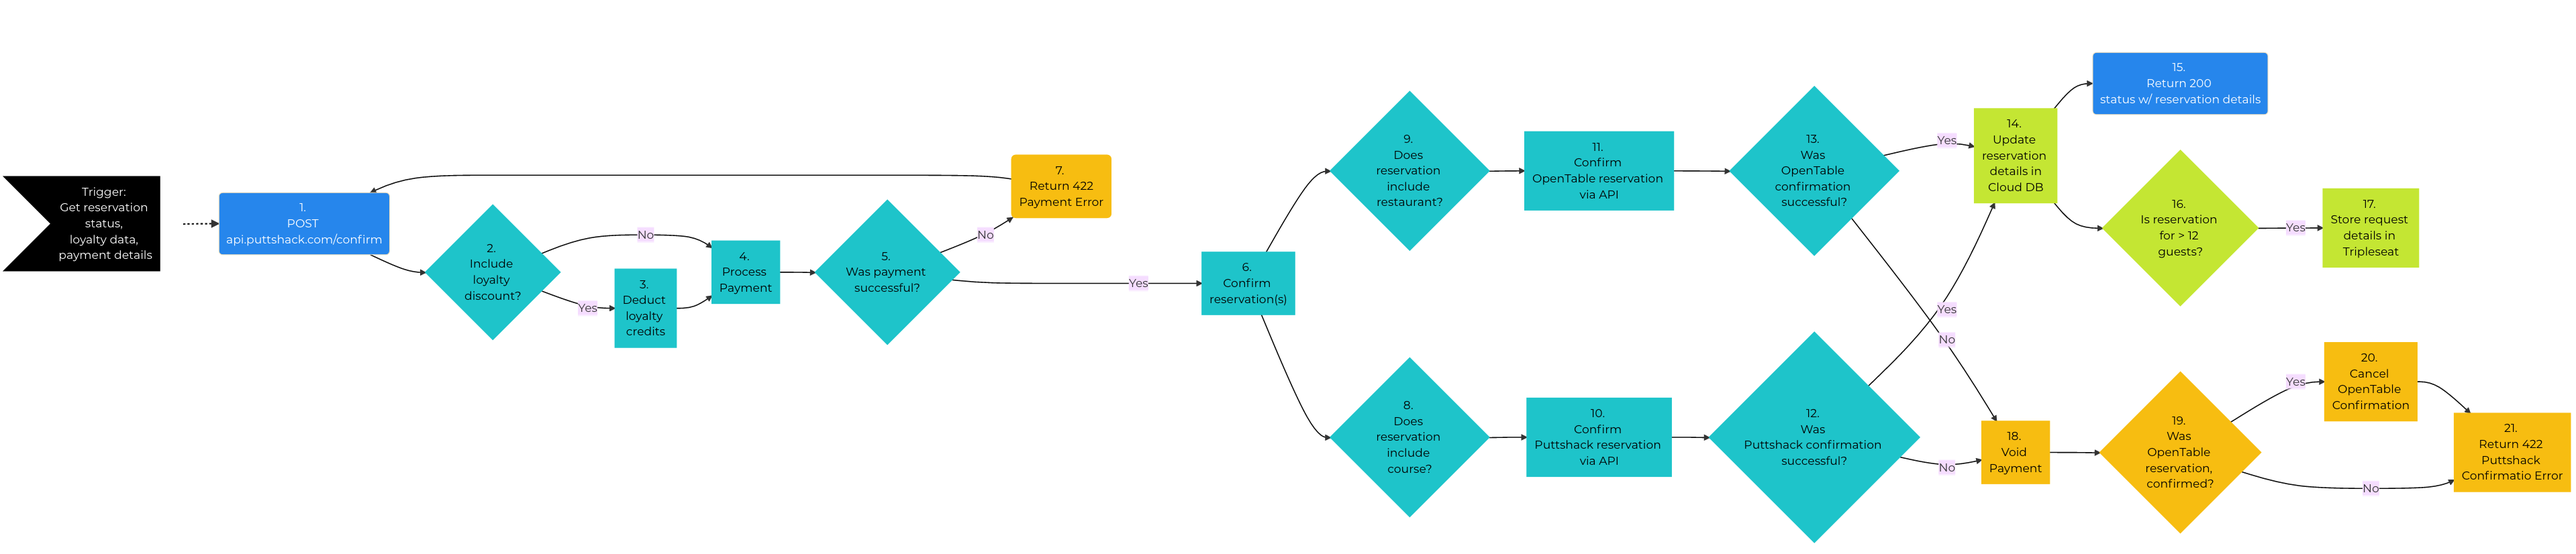
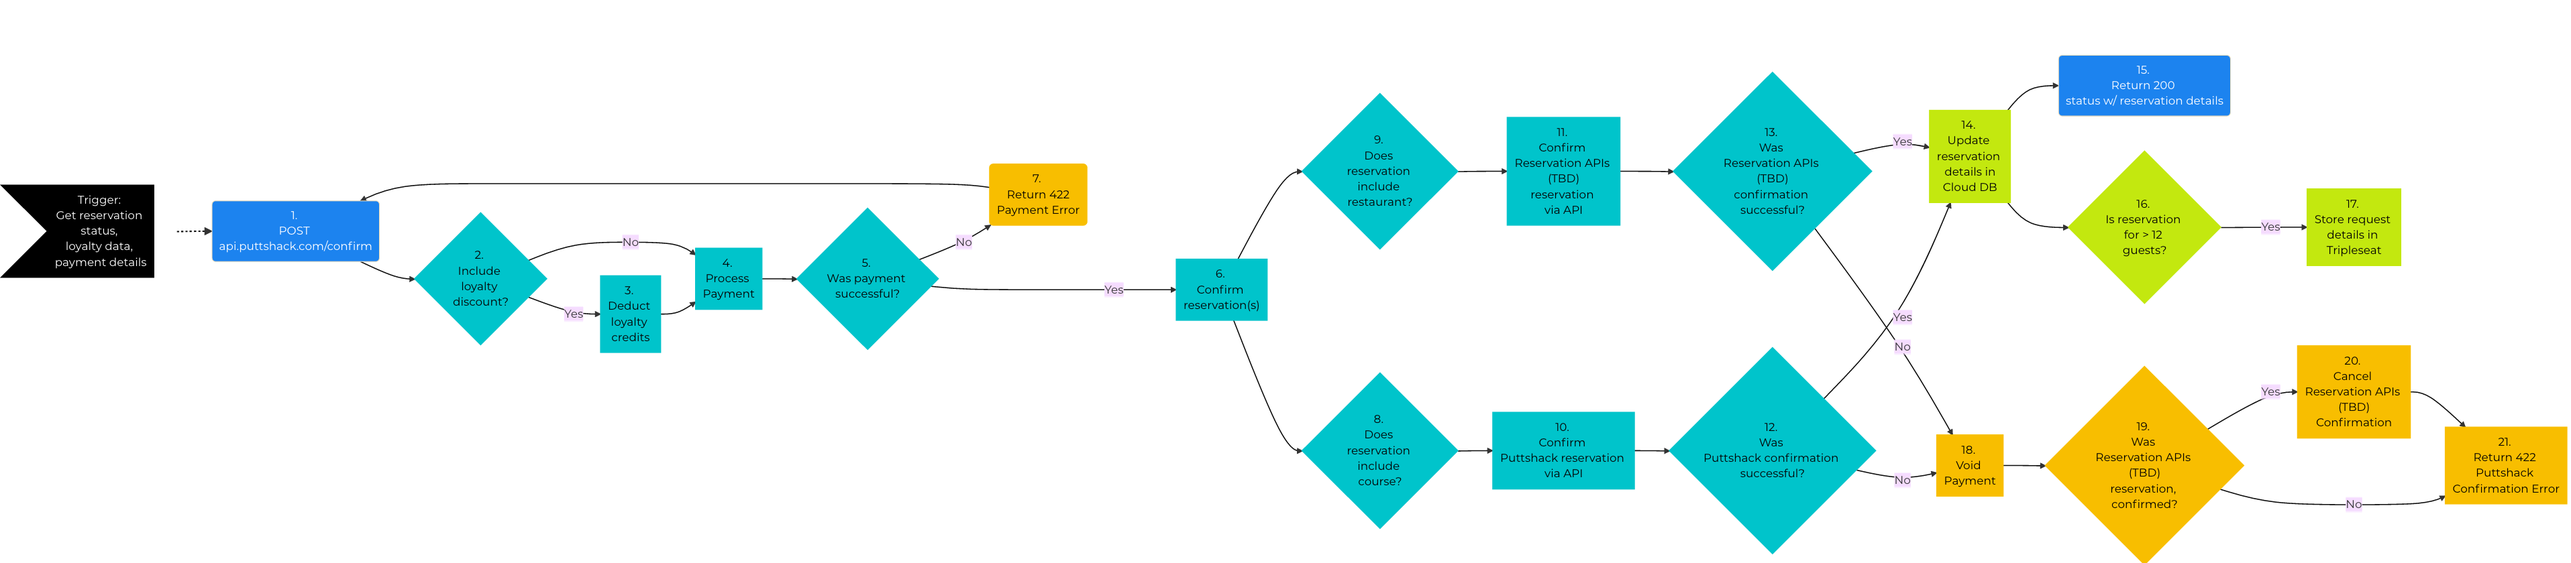
Fixes #4 missing workflow mermaid diagrams added

diff --git a/docs/source/docs/workflows.rst b/docs/source/docs/workflows.rst
@@ -12,10 +12,6 @@
 Puttshack API Workflows
 ************************
 
-.. warning::
-
-     Please note only three workflows are populated as of Aug 11.  Rest will be done after initial feedback to avoid rework.
-
 Workflow refers to a collection or unique set of API call sequences intended to achieve a specific objective related to a product use case. Some workflows may be commonly used across multiple use cases.
 
 This document gives a brief overview of |product_name| workflows that can be used by Puttshack Developers to implement one or more Puttshack digital service offerings. Each workflow description comprises of a flow chart, followed by key stages of the workflow, error handling and a list of third party APIs used to implement the workflow.
@@ -24,6 +20,7 @@ Here is a list of API workflows covered in this document:
 
 .. contents:: 
      :local:
+     :depth: 1
 
 ----
 
@@ -59,7 +56,7 @@ Booking: Key Stages
    
    - If the reservation includes a course then request hold via Puttshack Reservation APIs. If reservation is confirmed then store details in :ref:`cloud database<ref_gsg_cloud_database>` and proceed with the :ref:`Payment Workflow<ref_wf_payment>`. If reservation is not confirmed, check whether restaurant reservation was successful, if not cancel the reservation and return 422 course error. 
      
-   - If the reservation includes a restaurant, then request a hold via `Reservation APIs (TBD)<ref_tpa_opentable>`. If reservation is confirmed then store details in cloud database and proceed with the :ref:`Payment Workflow<ref_wf_payment>`. If reservation is not successful then cancel restaurant reservation and return 422 error.
+   - If the reservation includes a restaurant, then request a hold via :ref:`Reservation APIs (TBD)<ref_tpa_opentable>`. If reservation is confirmed then store details in cloud database and proceed with the :ref:`Payment Workflow<ref_wf_payment>`. If reservation is not successful then cancel restaurant reservation and return 422 error.
 
 #. To reserve for 24 guest or more, use Tripleseat APIs to store request details in Tripleseat and also update in cloud database. Return 200 success message and also share request details with Puttshack Sales Manager.
 
@@ -118,15 +115,15 @@ Payment: Key Stages
 
 #. Once the payment is successful, confirm reservation and check what all options are included in the booking.
 
-   - For course reservation, see if the Puttshack reservation API was successful and update reservation details in the cloud database. Otherwise, void the payment transaction, cancel the reservation (if it was implemented using `Reservation APIs (TBD)<ref_tpa_opentable>` based booking) and return 422 Puttshack confirmation error.
+   - For course reservation, see if the Puttshack reservation API was successful and update reservation details in the cloud database. Otherwise, void the payment transaction, cancel the reservation (if it was implemented using :ref:`Reservation APIs (TBD)<ref_tpa_opentable>` based booking) and return 422 Puttshack confirmation error.
 
-   - For restaurant reservation, see if reservation confirmation was received and update reservation details in the cloud database. Otherwise void the payment transaction, cancel the reservation (if it was a reservation based on `Reservation APIs (TBD)<ref_tpa_opentable>` booking) and return Puttshack confirmation error.
+   - For restaurant reservation, see if reservation confirmation was received and update reservation details in the cloud database. Otherwise void the payment transaction, cancel the reservation (if it was a reservation based on :ref:`Reservation APIs (TBD)<ref_tpa_opentable>` booking) and return Puttshack confirmation error.
 
 ------------------------
 Payment: Error Handling
 ------------------------
 
-If the payment processing fails, cancel all the third party based reservations - `Reservation APIs (TBD)<ref_tpa_opentable>` ones for example.
+If the payment processing fails, cancel all the third party based reservations - :ref:`Reservation APIs (TBD)<ref_tpa_opentable>` ones for example.
 
 Use webhooks to get notified of third party API call events that could result in payment failure.
 
@@ -144,13 +141,59 @@ Payment: Third Party APIs used
 
 .. _ref_wf_trieventconfirm_wb:
 
-===============================================
-Tripleseat Event Confirmation Webhook Workflow
-===============================================
+====================================
+Event Confirmation Webhook Workflow
+====================================
 
-.. note:: Work in Progress...
+The Puttshack event confirmation webhook workflow gathers an event confirmation information using third party APIs from Tripleseat. This workflow ensures that a confirmation is received via the third party booking API providers before confirming the same to the event host and guest(s).  It also performs retries until a specified threshold is reached.
 
-      I did not get enough time yet to complete this workflow - TBD.
+Refer to the the flow chart below for details. The key stages and error handling for event confirmation workflow are listed below:
+
+.. figure:: /img/ts_evt_confirm_wh.png
+   :align: center
+   :width: 100%
+   :figwidth: 95%
+   :alt: ts_evt_confirm_wh-wf
+
+   *Tripleseat Event Confirmation Webhook  Workflow*
+
+.. note::
+
+     Double click on the flowchart to zoom in.
+
+------------------------
+Confirmation: Key Stages
+------------------------
+
+#. Register for Tripleseat webhook for event confirmation using ```POST request``` and store event details in the :ref:`Cloud database<ref_gsg_cloud_database>`. Check if the event is triggered, if not simply return success response.
+
+#. If the event is triggered, add the event to the booking queue and processes them.
+
+#. The event processing queue requests reservation confirmation. If the reservation includes restaurant, then it initiates reservation request via :ref:`Reservation API (TBD)<ref_tpa_opentable>`. However, if the reservation includes golf, then it uses |product_name| for reservation confirmation status check. In both cases, it checks the request response and if successful, updates the event data in the cloud database. Next, it sends confirmation emails to guest(s). If the confirmation request response is not successful, it performs error handling.
+
+----------------------------
+Confirmation: Error Handling
+----------------------------
+
+As part of error handling, if the confirmation request status is not success, then the error count is incremented in the cloud database. In case it reaches the threshold limit, the event is marked as failed and a notification email is sent to the Puttshack Sales Manager.
+
+If the threshold limit is not reached, then event is placed back in the queue and processing retried.
+
+-----------------------------------
+Confirmation: Third Party APIs used
+-----------------------------------
+
+* Event Management:
+
+  - Locations, Bookings via :ref:`Tripleseat<ref_tpa_tripleseat>`
+
+* Restaurant Reservation:
+
+  - :ref:`Reservation APIs (TBD)<ref_tpa_opentable>`
+
+* Communication:
+
+  - :ref:`SendGrid<ref_tpa_sendgrid>`
 
 .. _ref_wf_upd_reservation:
 
@@ -158,9 +201,21 @@ Tripleseat Event Confirmation Webhook Workflow
 Update Reservation Workflow
 ============================
 
-.. note:: Work in Progress...
+This workflow handles updates to a booking that has been already confirmed as a reservation.  It uses third party APIs to cancel the restaurant reservation (if that is part of the booking) in case the update fails.
 
-      I did not get enough time yet to complete this workflow - TBD.
+Refer to the the flow chart below for details. 
+
+.. figure:: /img/update_res.png
+   :align: center
+   :width: 100%
+   :figwidth: 95%
+   :alt: update_res-wf
+
+   *Update Reservation Workflow*
+
+.. note::
+
+     Double click on the flowchart to zoom in.
 
 .. _ref_wf_rsv_notify:
 
@@ -168,9 +223,19 @@ Update Reservation Workflow
 Reservation Notifications Workflow
 ===================================
 
-.. note:: Work in Progress...
+Refer to the the flow chart below for details. 
 
-      I did not get enough time yet to complete this workflow - TBD.
+.. figure:: /img/res_notify.png
+   :align: center
+   :width: 100%
+   :figwidth: 95%
+   :alt: res_notify-wf
+
+   *Reservation Notification Workflow*
+
+.. note::
+
+     Double click on the flowchart to zoom in.
 
 .. _ref_wf_rsv_seated:
 
@@ -178,9 +243,19 @@ Reservation Notifications Workflow
 Reservation Seated Workflow
 ============================
 
-.. note:: Work in Progress...
+Refer to the the flow chart below for details. 
 
-      I did not get enough time yet to complete this workflow - TBD.
+.. figure:: /img/res_seated.png
+   :align: center
+   :width: 100%
+   :figwidth: 95%
+   :alt: res_seated-wf
+
+   *Reservation Seated Workflow*
+
+.. note::
+
+     Double click on the flowchart to zoom in.
 
 .. _ref_wf_rsvp:
 
